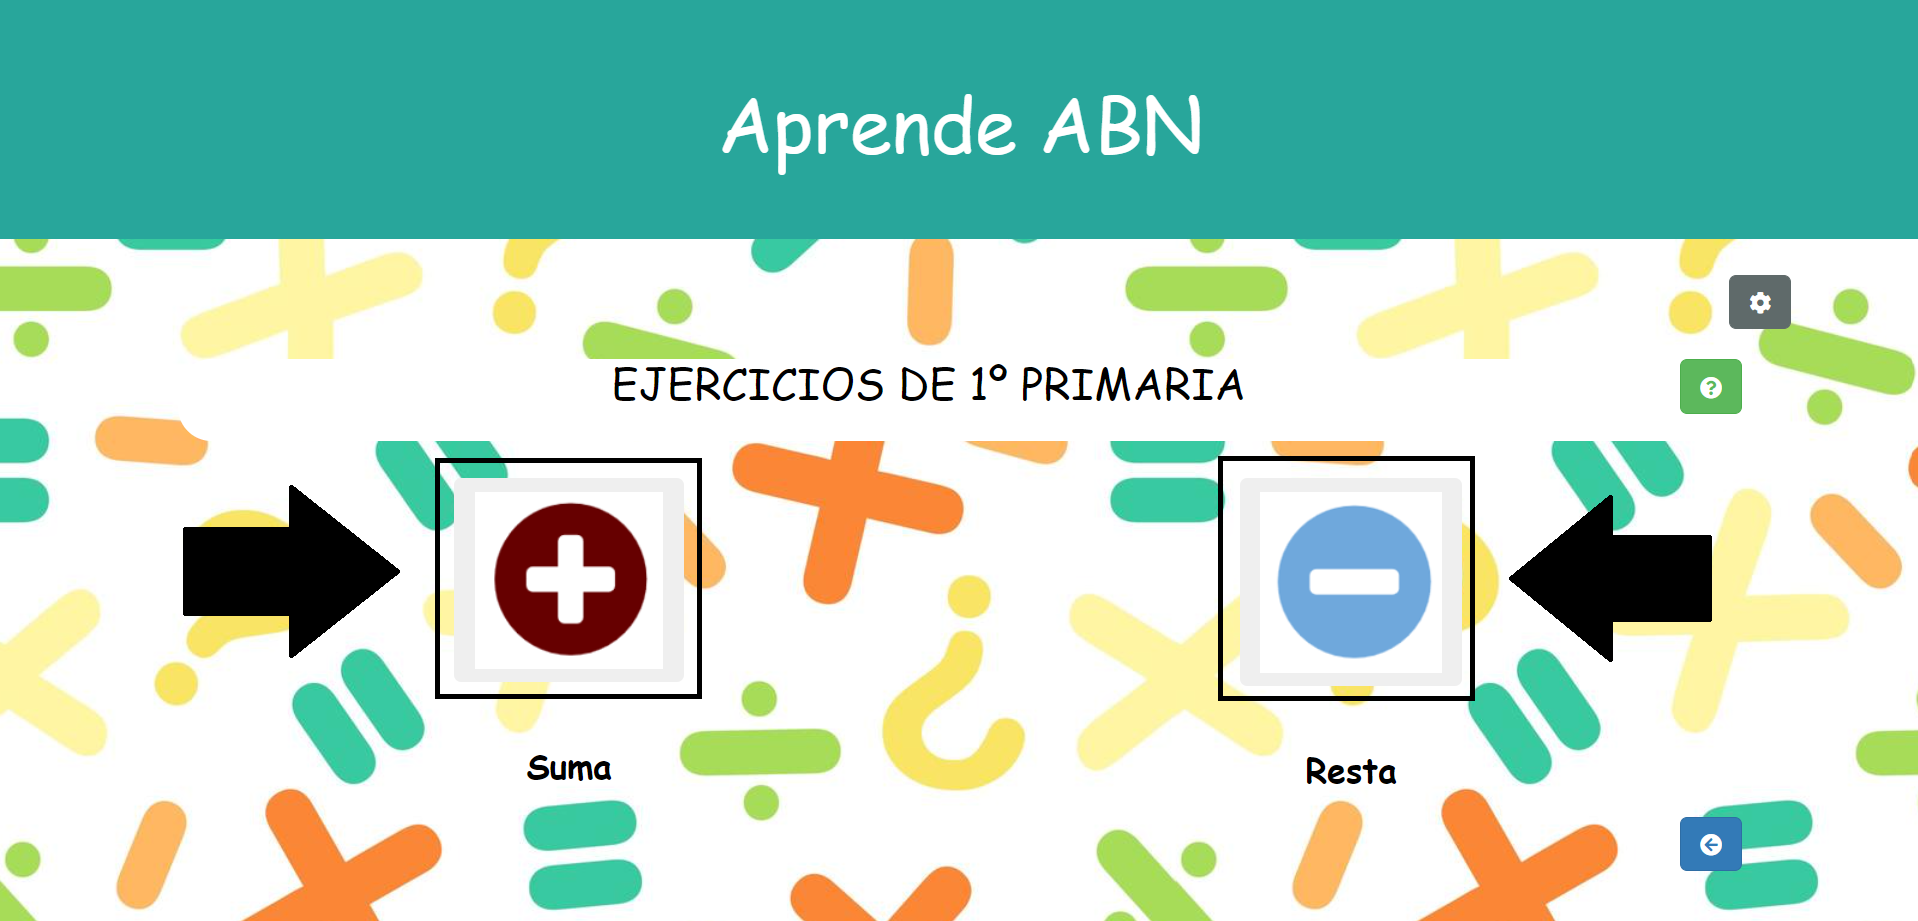
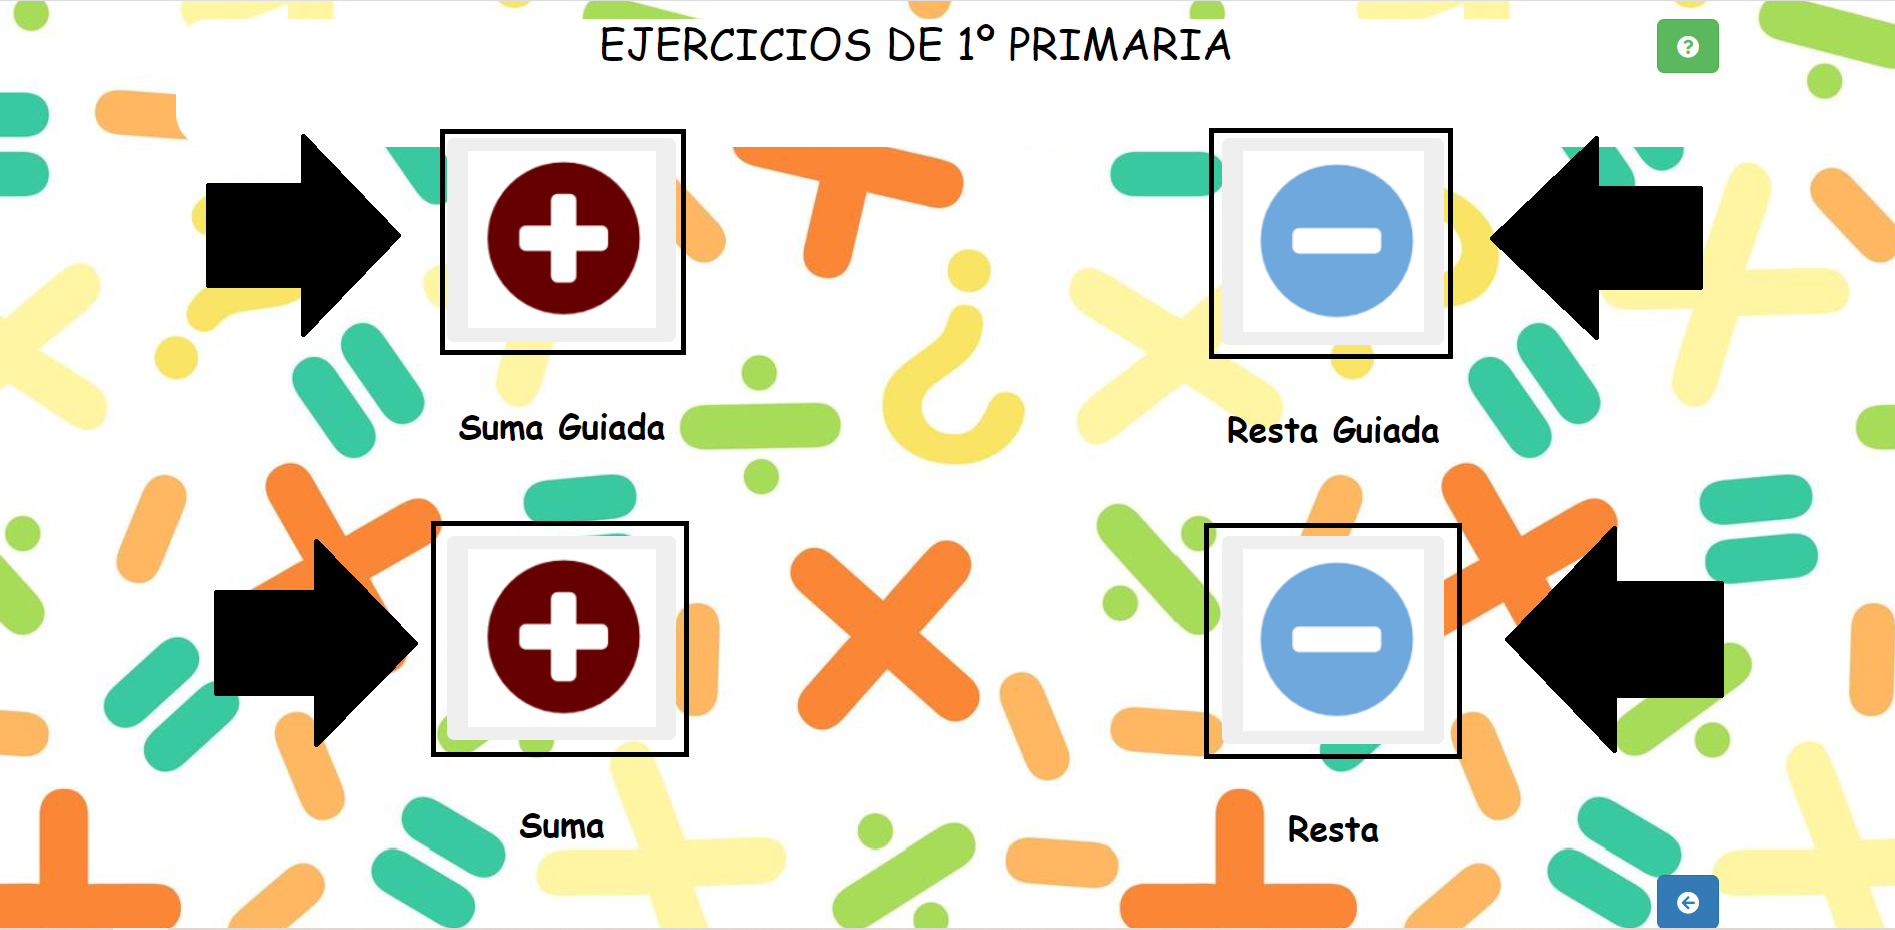
v 1.0.12 Mejoras

diff --git a/cliente/src/controlWeb.js b/cliente/src/controlWeb.js
@@ -1792,6 +1792,18 @@ function ControlWeb($){
 			
 		});
 
+		$('#btnInfo').on('click',function(){
+			var msg="Pulse en los distintos botones de undefined o 'Elegir',siempre y cuando esten habilitados";
+			msg=msg+"<img src='cliente/images/ayuda/14.png' width='800' height='350' ></img><p></p>";
+			msg=msg+"<p>Seleccione una de las opciones que se le proporcionan para cada uno de los botones </p>";
+			msg=msg+"<img src='cliente/images/ayuda/142.png' width='800' height='350' ></img><p></p>";
+			msg=msg+"<p>Una vez acabada la suma Para continuar con el siguiente ejercicio pulse 'Hecho'</p>";
+			msg=msg+"<img src='cliente/images/ayuda/143.png' width='800' height='350' ></img><p></p>";
+			msg=msg+"<p> Como bien se puede intuir, en la primera columna se podrán elegir aquellos números que se van a sumar al primer sumando y restar al segundo, y en las columnas sucesivas se tendrán que elegir las opciones correctas para completar la suma.</p>";
+			msg=msg+"<h3> ¡Atención! El número máximo de filas que se podrán añadir para realizar la suma serán 6</h3>";
+			cw.mostrarModal(msg);
+		});
+
 		$('#btnAtras').on('click',function(){
 			cw.mostrarEjercicios1();
 		});
@@ -2325,6 +2337,18 @@ this.ejercicio14=function(e13,score,n,solucion,disabled,disabled2,btn,btn2){
 				cw.ejercicio14((e13%10),score,1,matriz,disabled,disabled2,b,b2);
 			}
 			
+		});
+
+		$('#btnInfo').on('click',function(){
+			var msg="Pulse en los distintos botones de undefined o Elegir,siempre y cuando esten habilitados";
+			msg=msg+"<img src='cliente/images/ayuda/13.png' width='800' height='350' ></img><p></p>";
+			msg=msg+"<p>Seleccione una de las opciones que se le proporcionan para cada uno de los botones </p>";
+			msg=msg+"<img src='cliente/images/ayuda/132.png' width='800' height='350' ></img><p></p>";
+			msg=msg+"<p>Una vez finalizada la resta, para continuar con el siguiente ejercicio pulse 'Hecho'</p>";
+			msg=msg+"<img src='cliente/images/ayuda/133.png' width='800' height='350' ></img><p></p>";
+			msg=msg+"<p> Como bien se puede intuir, en la primera columna se podrán elegir aquellos números que se van a restar tanto al minuendo como al sustraendo, y en las columnas sucesivas se tendrán que elegir las opciones correctas para completar la resta</p>";
+			msg=msg+"<h3> ¡Atención! El número máximo de filas que se podrán añadir para realizar la resta serán 6</h3>";
+			cw.mostrarModal(msg);
 		});
 
 		$('#btnAtras').on('click',function(){

diff --git a/cliente/index.html b/cliente/index.html
@@ -73,7 +73,6 @@
 	var cw=new ControlWeb($);
 	cw.mostrarInicio();
 	cw.configuracion();
-	//cw.fondo();
 </script>
 </body>
 </html>
